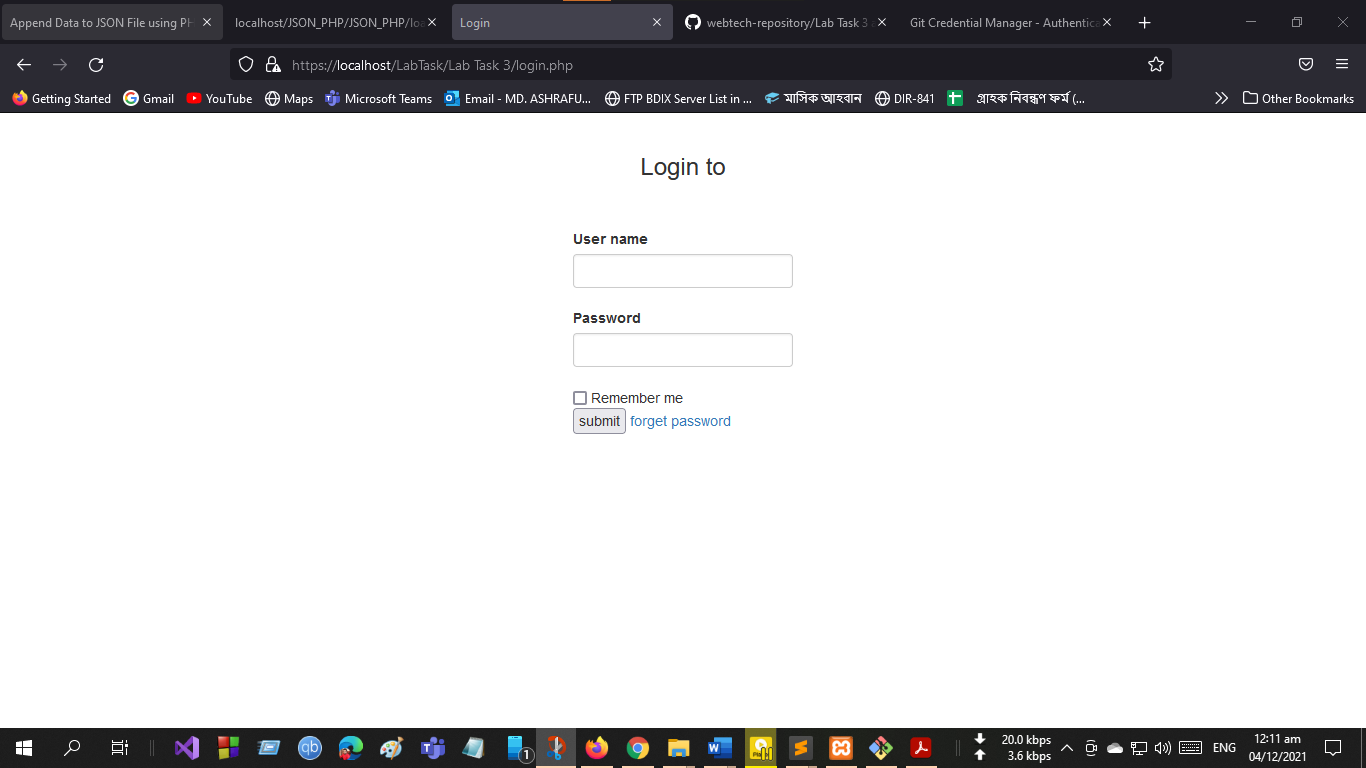
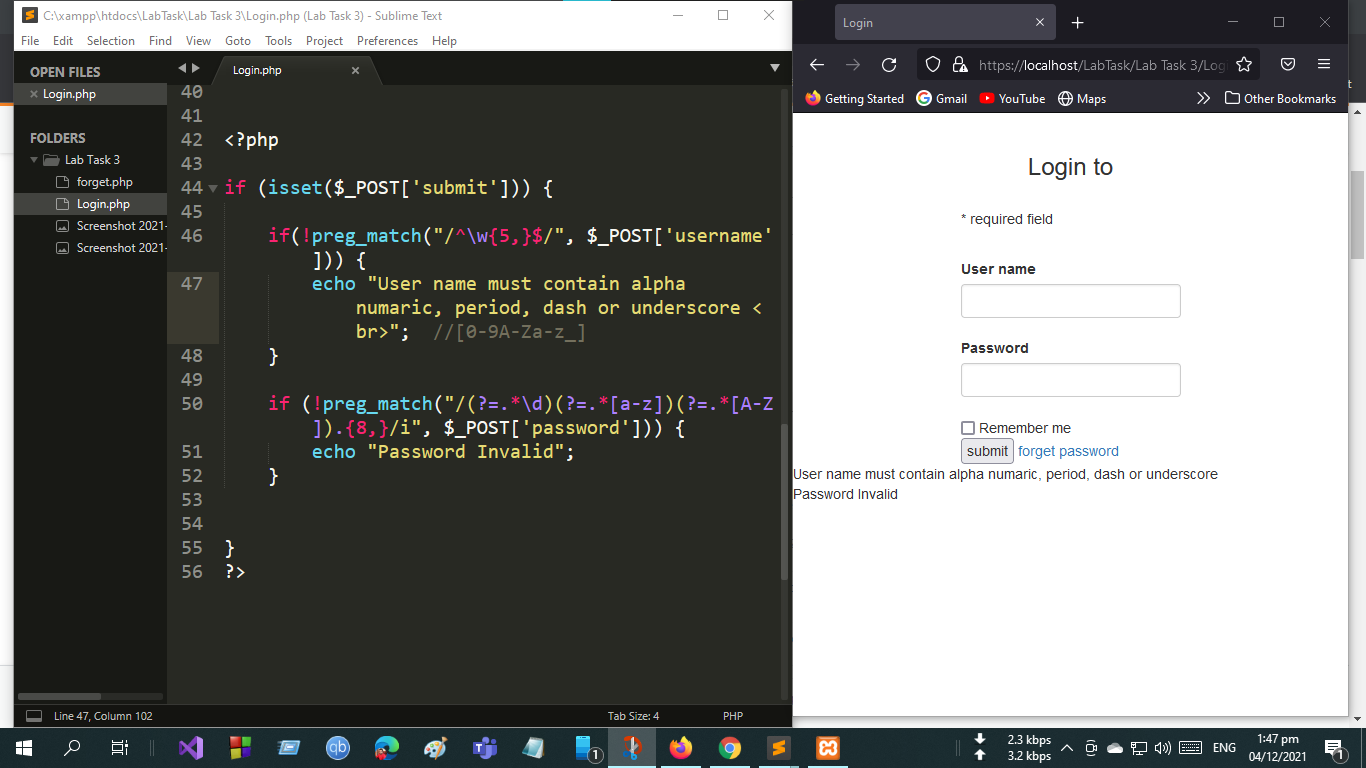
5

diff --git a/Lab Task 3/Login.php b/Lab Task 3/Login.php
@@ -12,14 +12,17 @@
 		<h3 align="center">Login to</h3>
 		<br />
 
-		<form method="POST">
+		<p><span class="error">* required field</span></p>
+		<form method="POST" action= "<?php echo htmlspecialchars($_SERVER["PHP_SELF"]);?>">
 			
 			<br />
 			<label>User name</label>
-			<input type="text" name="Username" class="form-control" /> <br />
+			<input type="text" name="username" class="form-control" / required="username"> <br />
 
 			<label>Password</label>
-			<input type="password" name="password" class="form-control" /> <br />
+			<input type="password" name="password" class="form-control" / required="password" > 
+			<!-- <span class="error">* <?php echo $passErr ; ?> </span> -->
+			<br />
 
 			<!-- <select></select> -->
 			<input type="checkbox" name="checkbox">
@@ -34,3 +37,20 @@
 
 </body>
 </html>
+
+
+<?php
+
+if (isset($_POST['submit'])) {
+
+	if(!preg_match("/^\w{5,}$/", $_POST['username'])) {
+		echo "User name must contain alpha numaric, period, dash or underscore <br>";  //[0-9A-Za-z_]
+	}
+
+	if (!preg_match("/(?=.*\d)(?=.*[a-z])(?=.*[A-Z]).{8,}/i", $_POST['password'])) {
+		echo "Password Invalid";
+	}
+
+
+}
+?>
